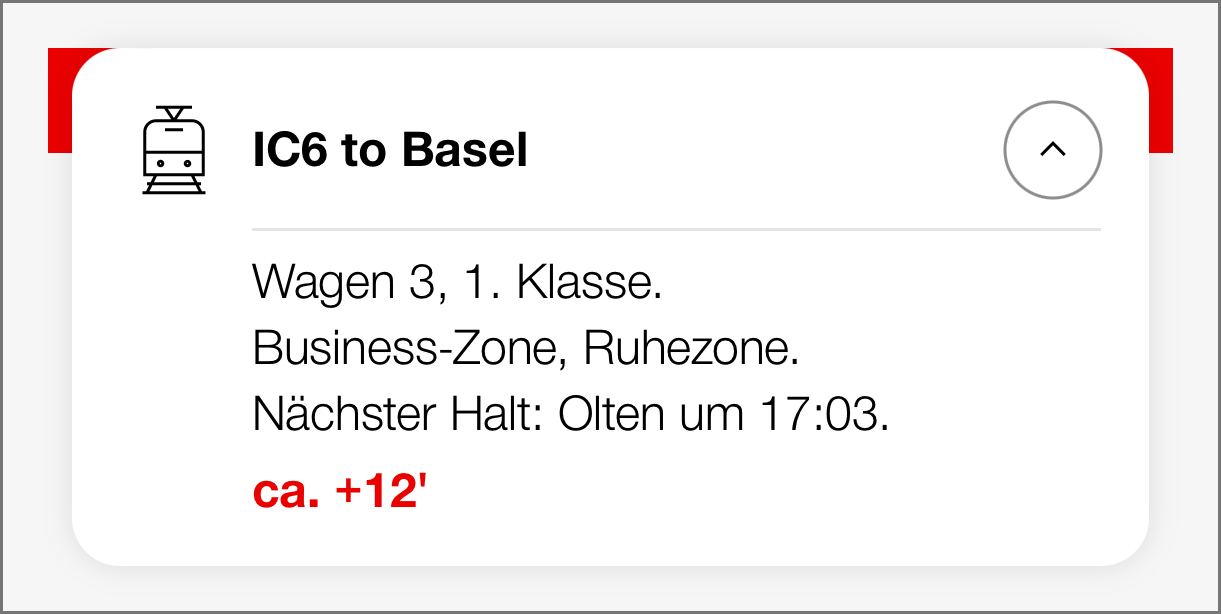
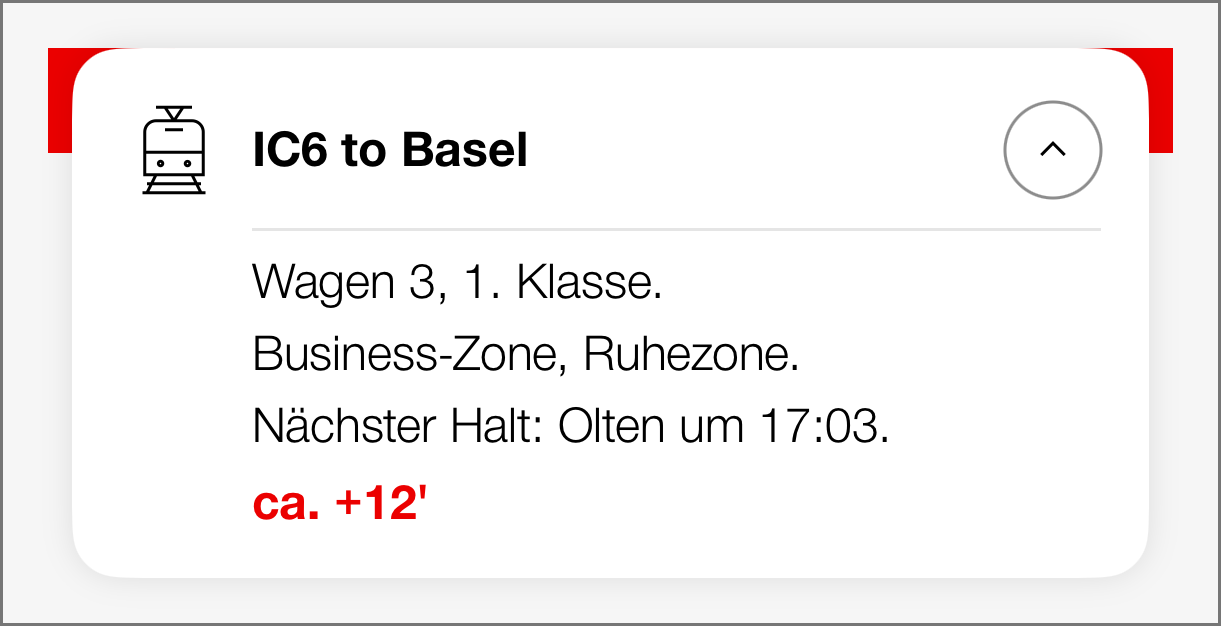
Update BubbleView background color

diff --git a/SBBDesignSystemMobileSwiftUI/Views/SBBBubbleView.swift b/SBBDesignSystemMobileSwiftUI/Views/SBBBubbleView.swift
@@ -257,7 +257,7 @@ public struct SBBBubbleView<ExpandableContent, SubtitleContent, FixedContent>: V
                     .padding(.leading, 16)
                     .padding(.trailing, horizontalSizeClass == .compact ? 16 : (expandableContent != nil) ? 16 : 0)
                     .padding(.vertical, horizontalSizeClass == .compact ? 16 : 8)
-                    .background(Color.sbbColor(.tabViewBackground))
+                    .background(Color.sbbColor(.viewBackground))
                     .cornerRadius(16)
                     .shadow(color: Color.black.opacity(0.1), radius: 5)
                     .accentColor(.sbbColor(.textBlack))
